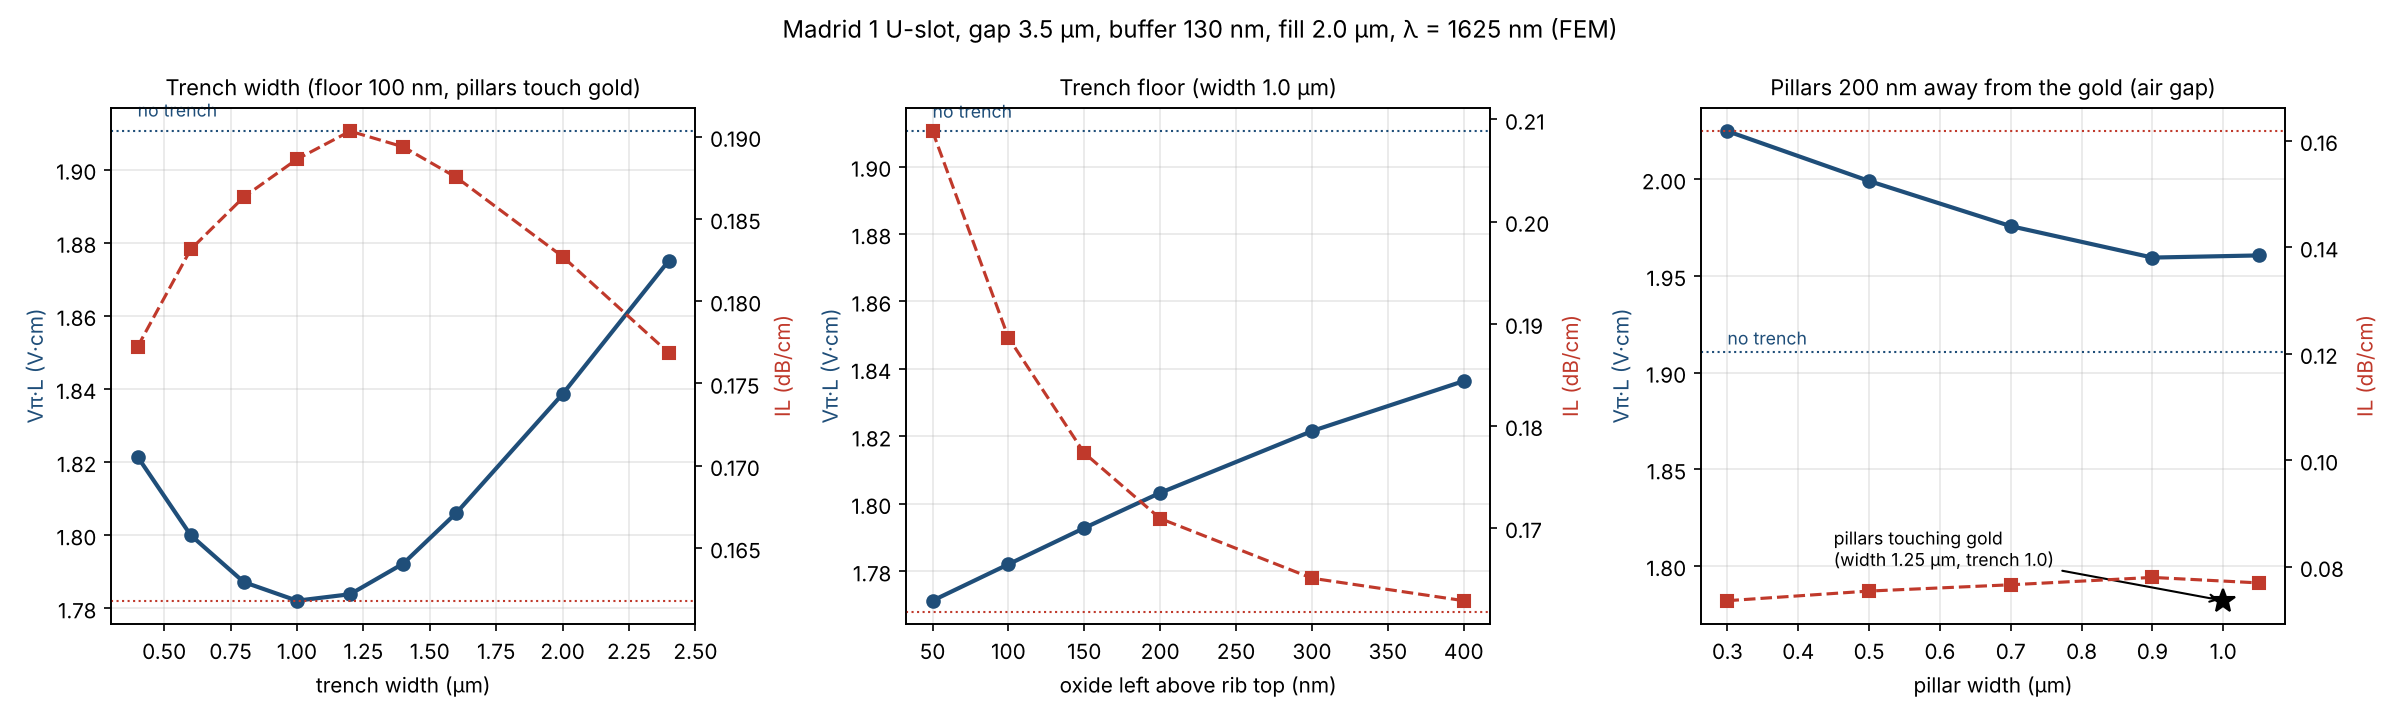
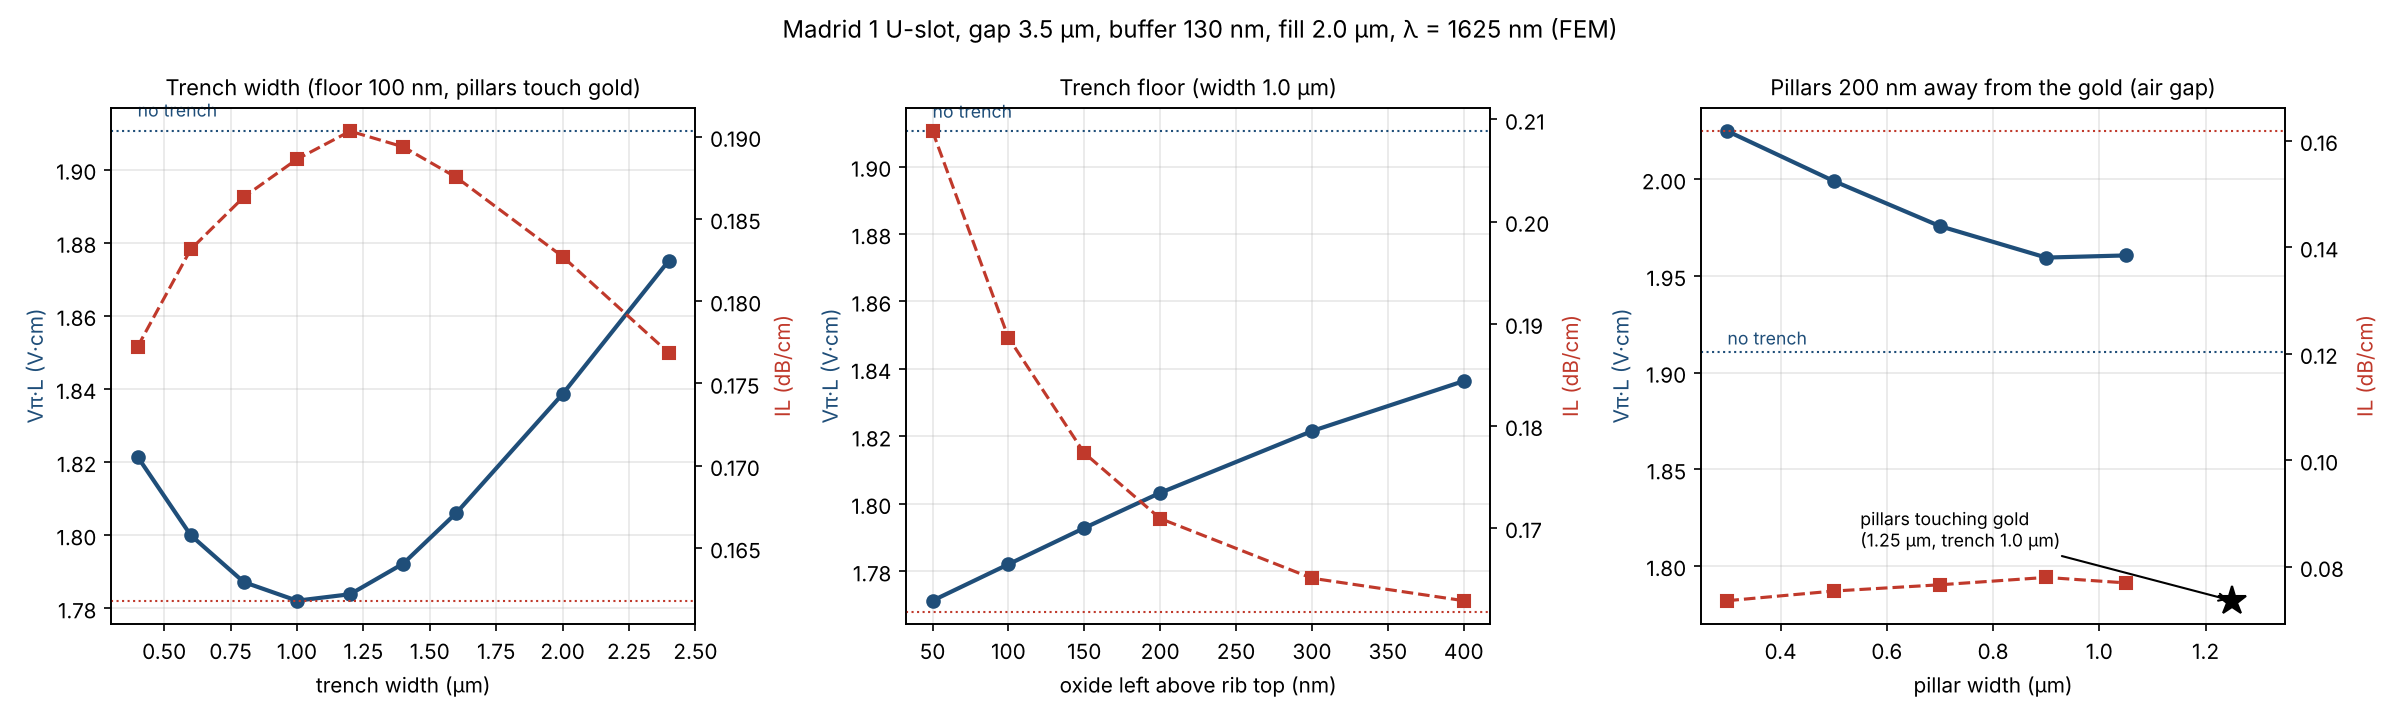
U-slot 1D plot: place touching-pillar reference correctly

Changed region(s): [[0.75, 0.7028, 0.9688, 0.8556], [0.7188, 0.1833, 0.9688, 0.3667], [0.7188, 0.8861, 0.9375, 0.9167]]

diff --git a/results/madrid/m1/uslot/plot1d.py b/results/madrid/m1/uslot/plot1d.py
@@ -13,5 +13,5 @@ def pl(a,tag,key,xl,title,xf=lambda r:r):
 pl(ax[0],"WIDTH","trw","trench width (µm)","Trench width (floor 100 nm, pillars touch gold)",lambda r:r["trw"])
 pl(ax[1],"FLOOR","trf","oxide left above rib top (nm)","Trench floor (width 1.0 µm)",lambda r:r["trf"]*1e3)
 s=pl(ax[2],"PILLAR","trw","pillar width (µm)","Pillars 200 nm away from the gold (air gap)",lambda r:round((r["cap_w"]-r["trw"])/2,3))
-ax[2].plot([1.0],[1.7820],"*",c="k",ms=12); ax[2].annotate("pillars touching gold\n(width 1.25 µm, trench 1.0)",(1.0,1.782),(0.45,1.80),fontsize=8.5,arrowprops=dict(arrowstyle="->"))
+ax[2].plot([1.25],[1.7820],"*",c="k",ms=14); ax[2].set_xlim(0.25,1.35); ax[2].annotate("pillars touching gold\n(1.25 µm, trench 1.0 µm)",(1.25,1.782),(0.55,1.81),fontsize=8.5,arrowprops=dict(arrowstyle="->"))
 f.suptitle("Madrid 1 U-slot, gap 3.5 µm, buffer 130 nm, fill 2.0 µm, λ = 1625 nm (FEM)",fontsize=11.5); f.tight_layout(); f.savefig("uslot_1d_sweeps.png",dpi=150)
